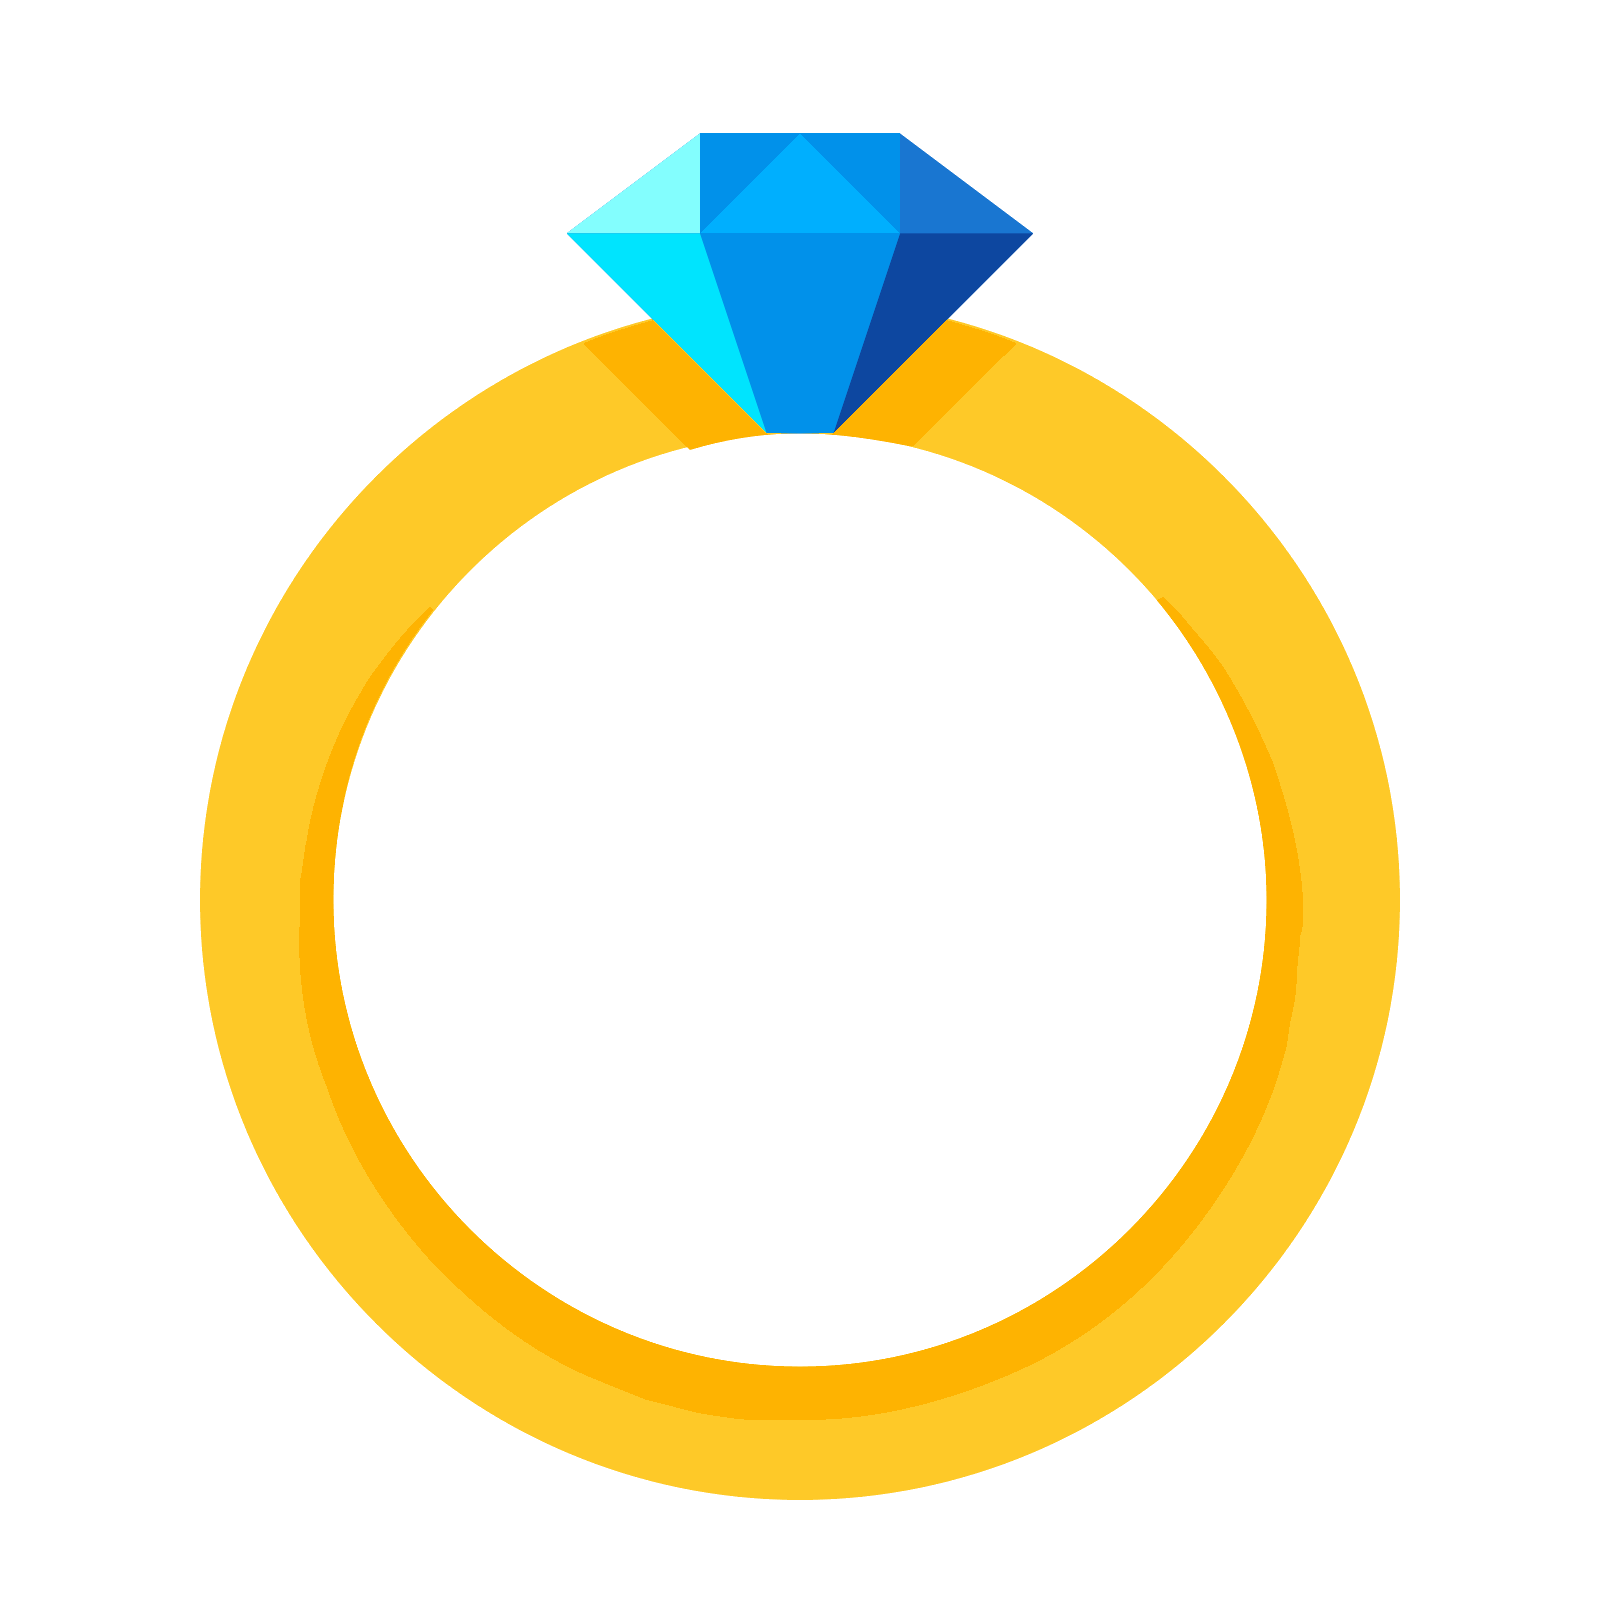
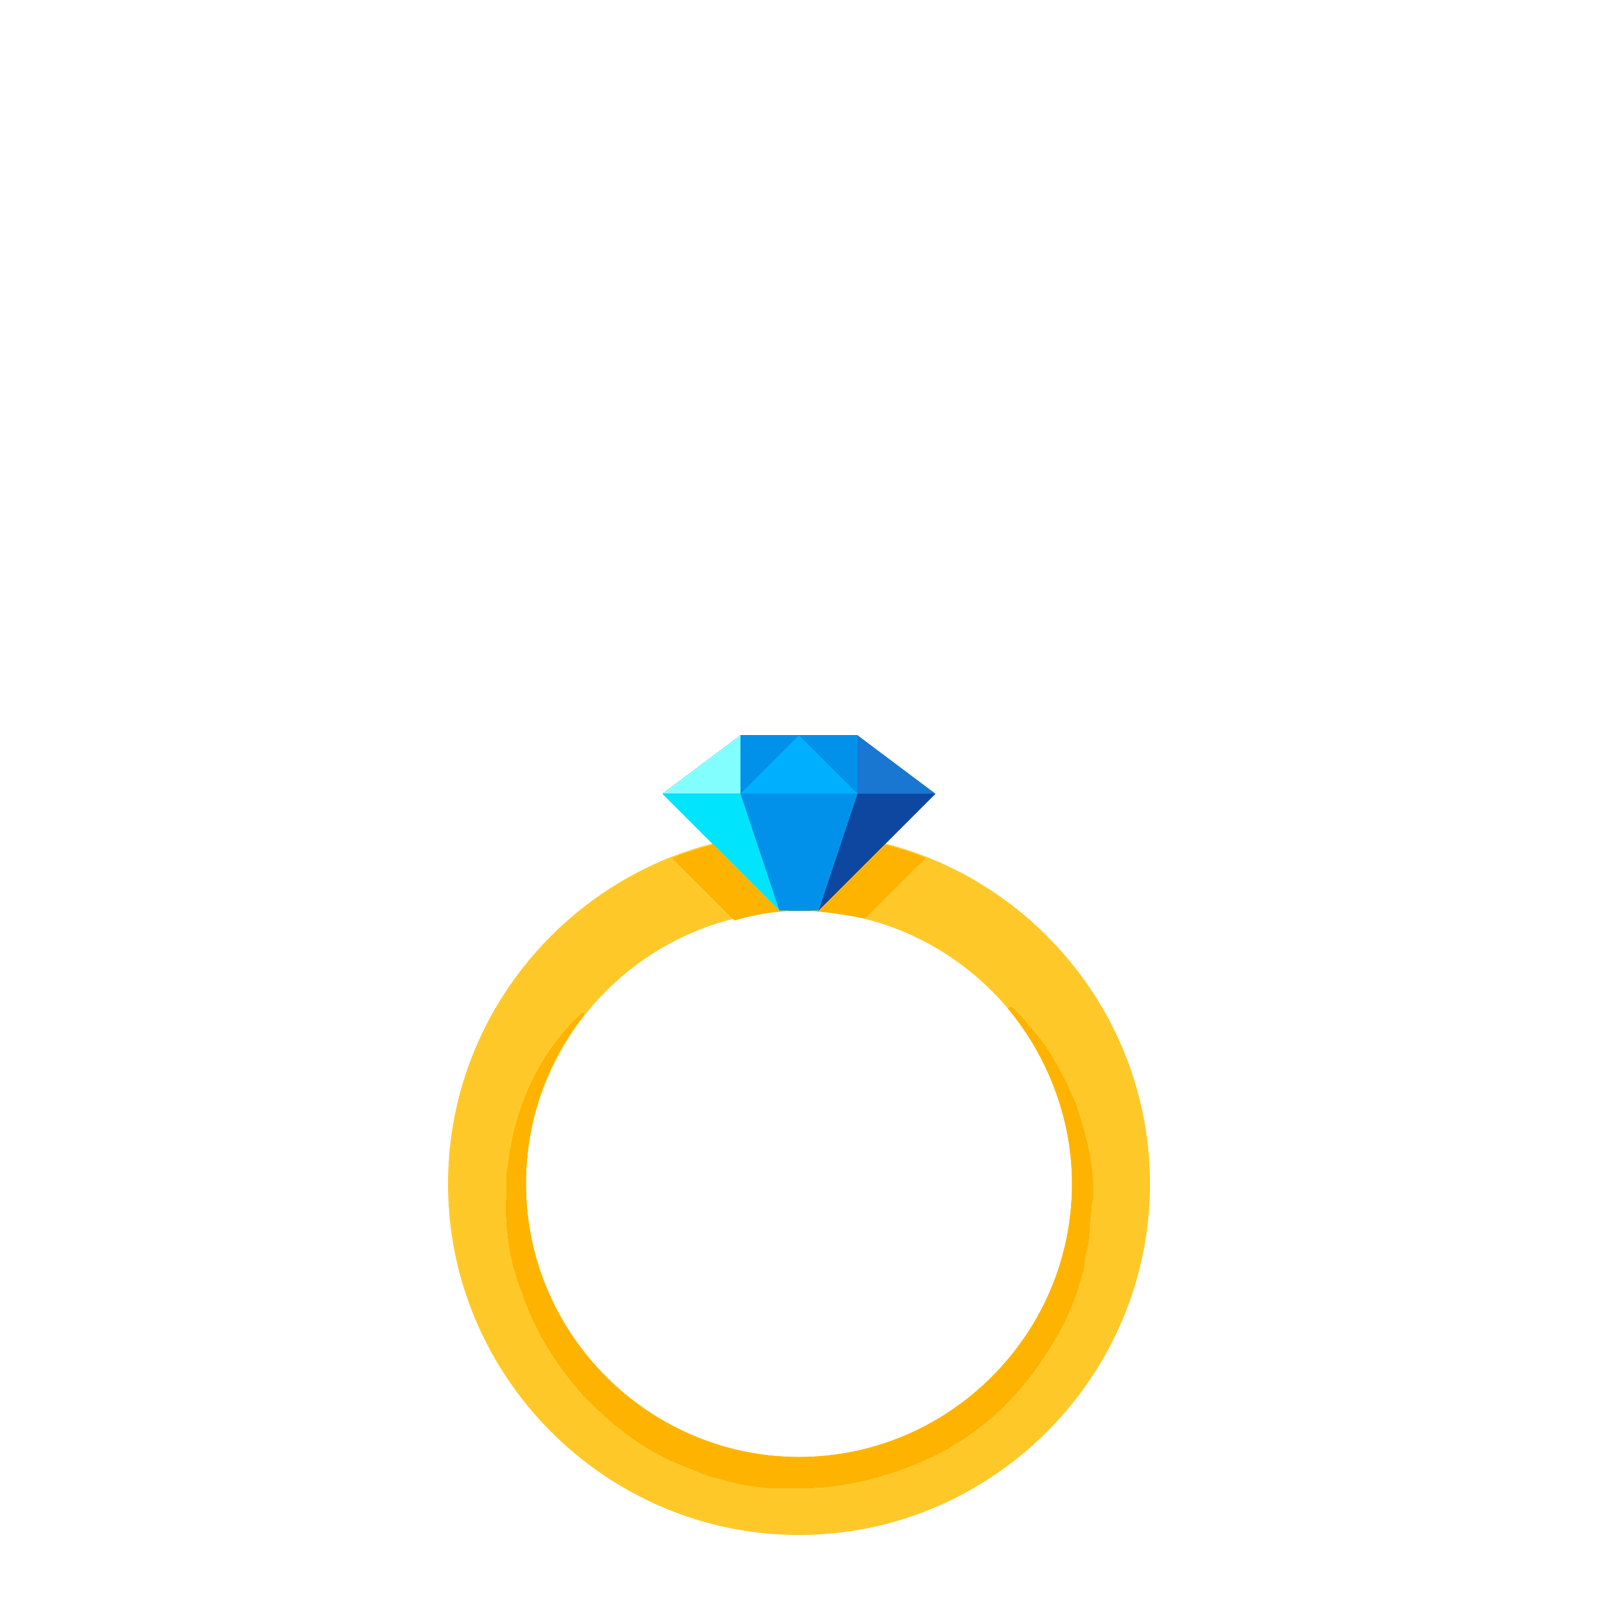
Correction probleme mineur
- methode isPoussiere() pour savoir si un element est une poussiere ou un bijou,
- changement des images
- juxtaposition des images bijoux sur les poussieres

Changed region(s): [[0.125, 0.0625, 0.875, 0.9688]]

diff --git a/src/view/Draw.java b/src/view/Draw.java
@@ -8,6 +8,7 @@ import java.awt.Image;
 import java.awt.image.BufferStrategy;
 import java.io.File;
 import java.io.IOException;
+import java.util.ArrayList;
 
 import javax.imageio.ImageIO;
 import javax.swing.JFrame;
@@ -31,17 +32,20 @@ public class Draw{
 	private int WIDTH = (int)(Math.min(height, width)/2*1.1);
 	private int HEIGHT = (int)(Math.min(height, width)/2*1.1);
 	private int intervalle = WIDTH/Parametre.TAILLE_GRILLE;
-	
+
 	/**image*/
 	private Image poussiere;
 	private Image bijou;
+	
+	private ArrayList<Element> List;
 
-	public Draw(String titre){
+	public Draw(String titre, ArrayList<Element> list){
+		List = list;
 		try {
-			this.poussiere = ImageIO.read(new File("poussiere.jpg"));
+			this.poussiere = ImageIO.read(new File("poussiere.png"));
 		} catch (IOException e) {e.printStackTrace();}
 		try {
-			this.poussiere = ImageIO.read(new File("diamond-ring.png"));
+			this.bijou = ImageIO.read(new File("diamond-ring.png"));
 		} catch (IOException e) {e.printStackTrace();}
 		//Makes a new window, with the name " Basic game  ".
 		frame = new JFrame(titre);
@@ -76,7 +80,7 @@ public class Draw{
 		bufferStrategy.show();
 	}
 	protected void render(Graphics2D g){
-		
+
 		int T =(int) (intervalle*0.9); // Taille d un element 
 		g.setColor(Color.WHITE);
 		// drawing de la grille
@@ -85,22 +89,28 @@ public class Draw{
 				g.fillRect(CO(i), CO(j),T,T );
 			}
 		}
-		// drawing des elements
-		for (int i = 0; i < Environement.ListEnvironement.size(); i++) {
-			Element e = Environement.ListEnvironement.get(i);
+		/* drawing des elements d abord poussier puis ensuite bijou 
+		 * 2 boucle for afin de permettre aux images des bijoux de paraitre dessus la poussiere
+		 */
+		for (int i = 0; i < List.size(); i++) {
+			Element e = List.get(i);
 			if(e.isPoussiere()) {
 				g.drawImage(poussiere,CO(e.getX()),CO(e.getY()),T,T,null);
-			}else {
+			}
+		}
+		for (int i = 0; i < List.size(); i++) {
+			Element e = List.get(i);
+			if(!e.isPoussiere()) {
 				g.drawImage(bijou,CO(e.getX()),CO(e.getY()),T,T,null);
 			}
 		}
 		// drawing du robot
-		
-		
+
+
 	}
-	
+
 	private int CO(int x) {	// coordonne en fonction de la taille de grille
 		return (int) (x*intervalle+intervalle/10);
 	}
-	
+
 }

diff --git a/src/model/Environement.java b/src/model/Environement.java
@@ -5,5 +5,17 @@ import java.util.ArrayList;
 public class Environement {
 	
 	public static ArrayList<Element> ListEnvironement = new ArrayList<Element>();
-
+	
+	// verifie que la case x,y ne contient pas deja un element similaire
+	public static boolean caseDisponible(int x, int y, boolean poussiere) {
+		boolean dispo = true;
+		for (int i = 0; i < ListEnvironement.size(); i++) {
+			int a = ListEnvironement.get(i).getX();
+			int b = ListEnvironement.get(i).getY();
+			if(x==a && y==b && ListEnvironement.get(i).isPoussiere()==poussiere) {
+				dispo = false;
+			}
+		}
+		return dispo;
+	}
 }

diff --git a/src/model/Parametre.java b/src/model/Parametre.java
@@ -11,8 +11,8 @@ public class Parametre {
 	public static final int MALUS_ENERGIE = -1;
 	
 	//Proba
-	public static final double PROBA_POUSSIERE = 0.5;
-	public static final double PROBA_BIJOU = 0.1;
+	public static final double PROBA_POUSSIERE = 1;
+	public static final double PROBA_BIJOU = 1;
 	
 	//autre...
 	public static final int TAILLE_GRILLE = 10;

diff --git a/src/controller/exAgent.java b/src/controller/exAgent.java
@@ -8,7 +8,7 @@ public class exAgent implements Runnable{
 
 		/**Initialisation de l agent*/
 		Agent A = new Agent();
-		Draw drawing = new Draw("Agent");
+		Draw drawing = new Draw("Agent",A.getListElementObs());
 		
 		/**Gestion de l agent*/
 		while(true) {	// gestion de l agent en boucle infini
